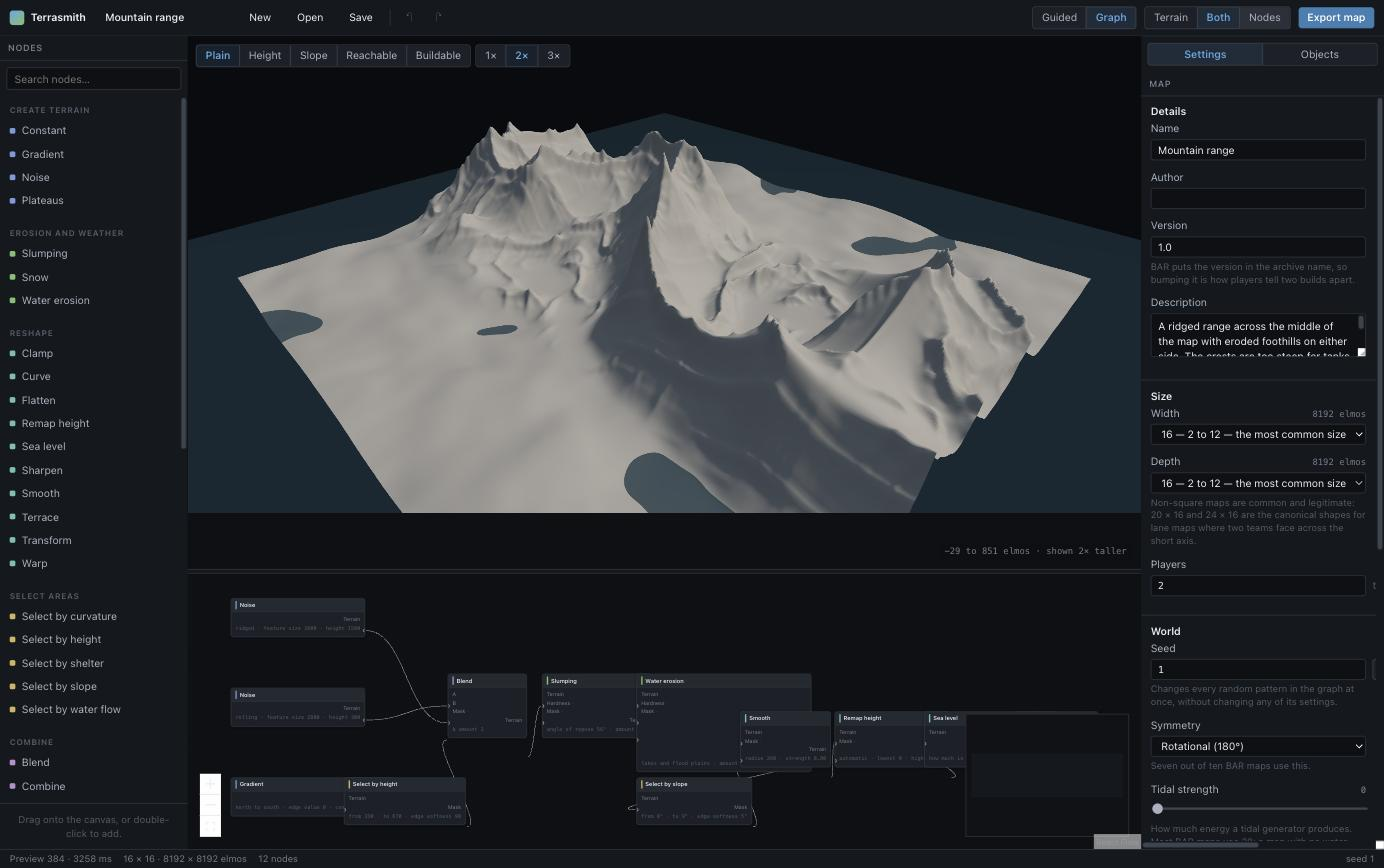
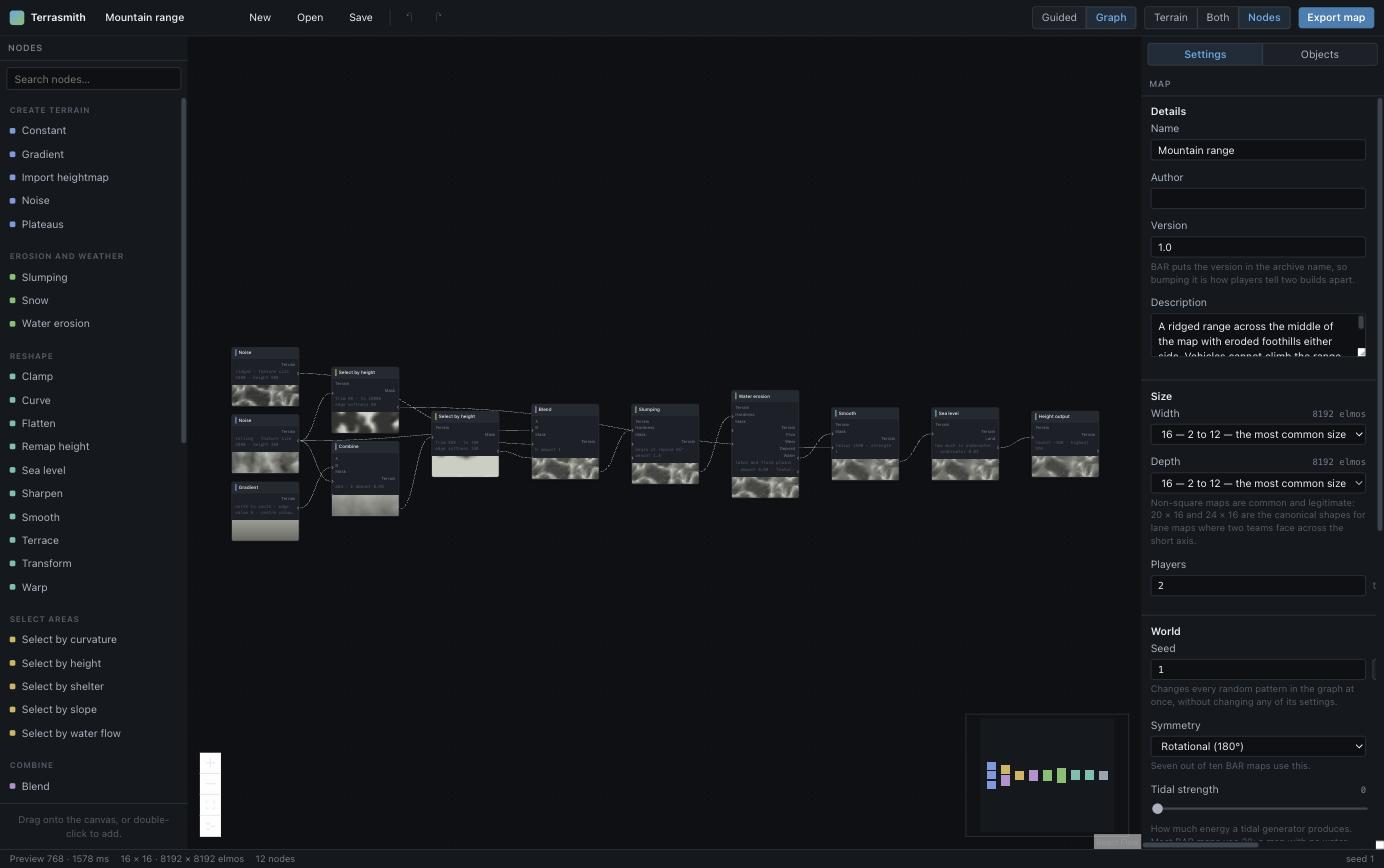
Show the editor as it is now
The screenshots predate node thumbnails, the fixed node width, the
minimap and the pane sizing, so they showed a narrower version of the
tool than the one you get. The overlay shot now shows what the map is
actually for: green where a vehicle can drive, pink where it cannot, and
the passes through the range as the green threads across it.

diff --git a/README.md b/README.md
@@ -13,12 +13,13 @@ no single extractor can capture it.
 **[Open the editor](https://yufanwang07.github.io/terrasmith/)** — it runs entirely in the browser, builds
 the archive client-side, and needs no account.
 
-![The Terrasmith editor, showing a map with the passability overlay on](docs/images/studio-overlay.jpg)
+![The Terrasmith editor: a mountain range with the passability overlay on, over its node graph](docs/images/studio-overlay.jpg)
 
-*Above: the viewport with "who can go here" on — green is passable by the selected unit class, red is not.
-Below: the same map's node graph.*
+*The "Reachable" overlay on a 16x16 map: green is ground a vehicle can drive, pink is ground it cannot,
+so the passes through the range are the green threads across it. The graph that made it is underneath,
+each node showing what comes out of it.*
 
-![The node graph for the same map](docs/images/studio-graph.jpg)
+![The same map's node graph on its own](docs/images/studio-graph.jpg)
 
 ## Why this exists
 
